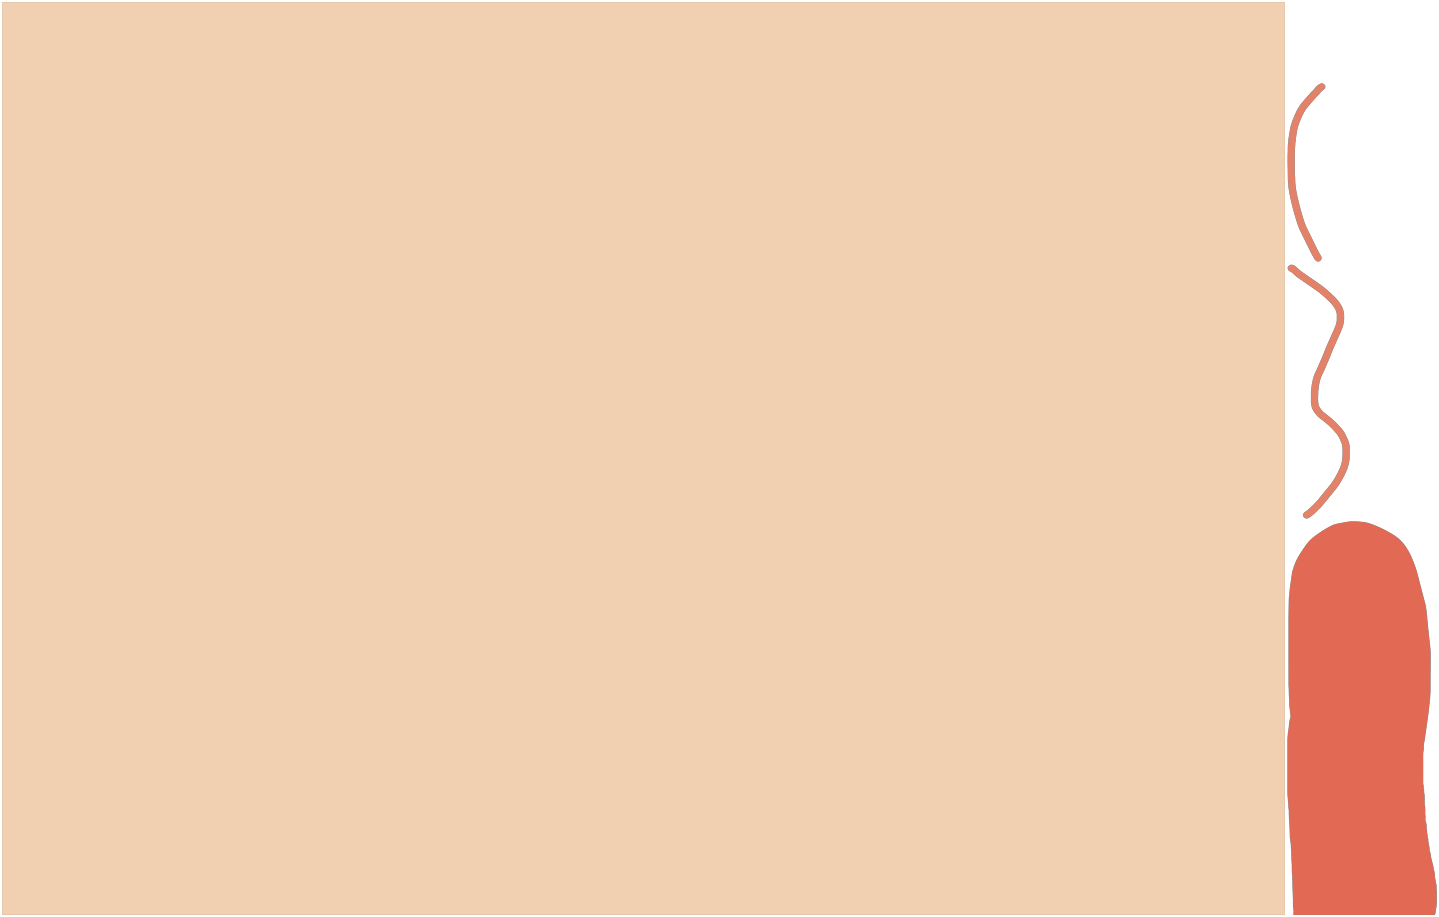
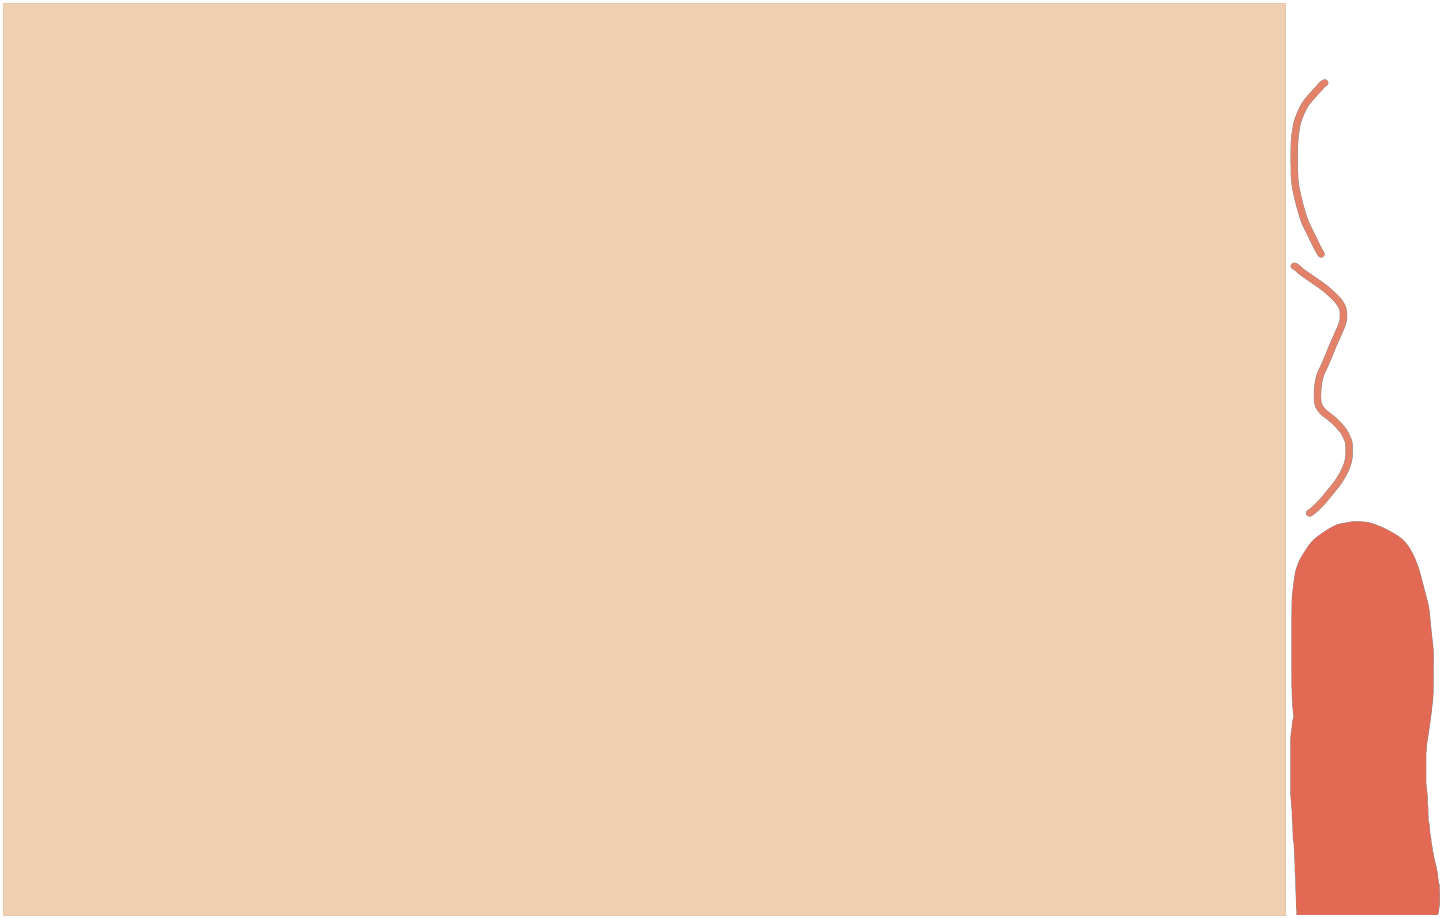
made clipping work

diff --git a/core/src/main/java/com/kandclay/screens/TestScreen.java b/core/src/main/java/com/kandclay/screens/TestScreen.java
@@ -7,12 +7,10 @@ import com.badlogic.gdx.math.Vector2;
 import com.badlogic.gdx.scenes.scene2d.InputEvent;
 import com.badlogic.gdx.scenes.scene2d.InputListener;
 import com.badlogic.gdx.scenes.scene2d.Stage;
+import com.badlogic.gdx.utils.Array;
 import com.badlogic.gdx.utils.viewport.FitViewport;
 import com.badlogic.gdx.utils.viewport.Viewport;
-import com.esotericsoftware.spine.AnimationState;
-import com.esotericsoftware.spine.Bone;
-import com.esotericsoftware.spine.Skeleton;
-import com.esotericsoftware.spine.SkeletonRenderer;
+import com.esotericsoftware.spine.*;
 import com.kandclay.utils.Constants;
 
 public class TestScreen extends BaseScreen {
@@ -25,6 +23,9 @@ public class TestScreen extends BaseScreen {
     private Vector2 lastMousePosition = new Vector2();
     private boolean isDragging = false;
     private ShapeRenderer shapeRenderer;
+
+    private static final boolean UP = true;
+    private static final boolean DOWN = false;
 
     public TestScreen() {
         super();
@@ -88,6 +89,14 @@ public class TestScreen extends BaseScreen {
         return false;
     }
 
+    private void showDrawOrder(Skeleton skeleton) {
+        for (int i = skeleton.getDrawOrder().size - 1; i >= 0; i--) {
+            Slot slot = skeleton.getDrawOrder().get(i);
+            Gdx.app.log("DrawOrder", slot.getData().getName());
+        }
+        Gdx.app.log("DrawOrder", "-----------------");
+    }
+
     private void initializeSkeleton() {
         String atlasPath = Constants.TestScreen.ATLAS;
         String skeletonPath = Constants.TestScreen.JSON;
@@ -95,11 +104,59 @@ public class TestScreen extends BaseScreen {
         skeleton = game.getSpineAnimationHandler().createSkeleton(atlasPath, skeletonPath);
         state = game.getSpineAnimationHandler().createAnimationState(skeleton);
 
-        setSkeletonScale(skeleton, 0.8f, 0.8f, viewport);
+        showDrawOrder(skeleton);
+
+        modifyDrawOrder(skeleton, "anl-clipping", DOWN);
+
+        showDrawOrder(skeleton);
+
+//        Gdx.app.log("DrawOrder", "-----------------");
 
         // state.setAnimation(0, "animation", true);
 
-        targetBone = skeleton.findBone("target2");
+        targetBone = skeleton.findBone("bone");
+    }
+
+    public void modifyDrawOrder(Skeleton skeleton, String slotName, boolean moveUp) {
+        modifyDrawOrder(skeleton, slotName, moveUp, 1);
+    }
+
+    public void modifyDrawOrder(Skeleton skeleton, String slotName, boolean moveUp, int times) {
+        Array<Slot> drawOrder = skeleton.getDrawOrder();
+        int currentIndex = -1;
+
+        // Find the index of the specified slot
+        for (int i = 0; i < drawOrder.size; i++) {
+            if (drawOrder.get(i).getData().getName().equals(slotName)) {
+                currentIndex = i;
+                break;
+            }
+        }
+
+        // If the slot is found, modify its position in the draw order
+        if (currentIndex != -1) {
+            Slot slotToMove = drawOrder.get(currentIndex);
+            int newIndex;
+
+            if (moveUp) {
+                // Move up (towards the end of the array)
+                newIndex = Math.min(currentIndex + times, drawOrder.size - 1);
+            } else {
+                // Move down (towards the beginning of the array)
+                newIndex = Math.max(currentIndex - times, 0);
+            }
+
+            // Perform the move
+            if (newIndex != currentIndex) {
+                drawOrder.removeIndex(currentIndex);
+                drawOrder.insert(newIndex, slotToMove);
+
+                // Update the skeleton's draw order
+                skeleton.setDrawOrder(drawOrder);
+            }
+        } else {
+            System.out.println("Slot not found: " + slotName);
+        }
     }
 
     private void moveBone(float deltaX, float deltaY) {
@@ -111,7 +168,7 @@ public class TestScreen extends BaseScreen {
 
     @Override
     public void render(float delta) {
-        clearScreen(255, 255, 255, 0);
+        clearScreen(255, 100, 100, 0);
 
         state.update(delta);
         state.apply(skeleton);
@@ -147,8 +204,8 @@ public class TestScreen extends BaseScreen {
     @Override
     public void resize(int width, int height) {
         viewport.update(width, height, true);
-//        setSkeletonScale(skeleton, 0.8f, 0.8f, viewport);
-        setSkeletonPosition(skeleton, 0,0);
+        setSkeletonScale(skeleton, 0.8f, 0.8f, viewport);
+        setSkeletonPosition(skeleton, 0,200);
     }
 
     @Override

diff --git a/core/src/main/java/com/kandclay/Main.java b/core/src/main/java/com/kandclay/Main.java
@@ -4,8 +4,7 @@ import com.badlogic.gdx.Gdx;
 
 import com.badlogic.gdx.graphics.Texture;
 import com.badlogic.gdx.graphics.g2d.BitmapFont;
-
-import com.badlogic.gdx.graphics.g2d.SpriteBatch;
+import com.badlogic.gdx.graphics.g2d.PolygonSpriteBatch;
 import com.badlogic.gdx.graphics.g2d.TextureAtlas;
 import com.badlogic.gdx.scenes.scene2d.ui.Label;
 import com.badlogic.gdx.scenes.scene2d.ui.Skin;
@@ -29,14 +28,13 @@ public class Main extends ManagedGame<ManagedScreen, ScreenTransition> {
     private AudioManager audioManager;
     private ConfigurationManager configManager;
     private SpineAnimationHandler spineAnimationHandler;
-
-    private SpriteBatch batch;
+    private PolygonSpriteBatch batch;
 
     @Override
     public void create() {
         super.create();
 
-        batch = new SpriteBatch();
+        batch = new PolygonSpriteBatch();
         configManager = ConfigurationManager.getInstance();
         assetManager = MyAssetManager.getInstance();
         audioManager = AudioManager.getInstance();
@@ -116,7 +114,7 @@ public class Main extends ManagedGame<ManagedScreen, ScreenTransition> {
         }
     }
 
-    public SpriteBatch getBatch() {
+    public PolygonSpriteBatch getBatch() {
         return batch;
     }
 

diff --git a/core/src/main/java/com/kandclay/screens/MainMenuScreen.java b/core/src/main/java/com/kandclay/screens/MainMenuScreen.java
@@ -4,7 +4,7 @@ import com.badlogic.gdx.Gdx;
 import com.badlogic.gdx.InputAdapter;
 import com.badlogic.gdx.InputMultiplexer;
 import com.badlogic.gdx.graphics.*;
-import com.badlogic.gdx.graphics.g2d.SpriteBatch;
+import com.badlogic.gdx.graphics.g2d.Batch;
 import com.badlogic.gdx.graphics.g2d.TextureRegion;
 import com.badlogic.gdx.graphics.glutils.FrameBuffer;
 import com.badlogic.gdx.graphics.glutils.ShapeRenderer;
@@ -246,7 +246,7 @@ public class MainMenuScreen extends BaseScreen {
         TrailDot.renderTrail(game.getBatch(), minimapStage.getViewport());
     }
 
-    private void renderMenu(SpriteBatch batch, Viewport viewport, int skeletonIndex) {
+    private void renderMenu(Batch batch, Viewport viewport, int skeletonIndex) {
         Skeleton skeleton = skeletons.get(skeletonIndex);
         AnimationState state = states.get(skeletonIndex);
 

diff --git a/core/src/main/java/com/kandclay/screens/ConfigurationScreen.java b/core/src/main/java/com/kandclay/screens/ConfigurationScreen.java
@@ -4,7 +4,6 @@ import com.badlogic.gdx.Gdx;
 import com.badlogic.gdx.InputMultiplexer;
 import com.badlogic.gdx.graphics.Camera;
 import com.badlogic.gdx.graphics.OrthographicCamera;
-import com.badlogic.gdx.graphics.g2d.SpriteBatch;
 import com.badlogic.gdx.scenes.scene2d.Actor;
 import com.badlogic.gdx.scenes.scene2d.Stage;
 import com.badlogic.gdx.scenes.scene2d.ui.*;
@@ -12,7 +11,6 @@ import com.badlogic.gdx.scenes.scene2d.utils.ChangeListener;
 import com.badlogic.gdx.utils.viewport.ScreenViewport;
 import com.badlogic.gdx.utils.viewport.Viewport;
 import com.kandclay.utils.Constants;
-import com.kandclay.utils.Shaders;
 import com.kandclay.utils.TrailDot;
 
 import static com.kandclay.utils.Shaders.createTransition;

diff --git a/core/src/main/java/com/kandclay/utils/TrailDot.java b/core/src/main/java/com/kandclay/utils/TrailDot.java
@@ -2,7 +2,7 @@ package com.kandclay.utils;
 
 import com.badlogic.gdx.Gdx;
 import com.badlogic.gdx.graphics.Color;
-import com.badlogic.gdx.graphics.g2d.SpriteBatch;
+import com.badlogic.gdx.graphics.g2d.Batch;
 import com.badlogic.gdx.math.MathUtils;
 import com.badlogic.gdx.math.Rectangle;
 import com.badlogic.gdx.utils.SnapshotArray;
@@ -79,7 +79,7 @@ public class TrailDot {
         trailDotCount++;
     }
 
-    public static void renderTrail(SpriteBatch batch, Viewport viewport) {
+    public static void renderTrail(Batch batch, Viewport viewport) {
         viewport.apply();
         batch.setProjectionMatrix(viewport.getCamera().combined);
         batch.begin();
